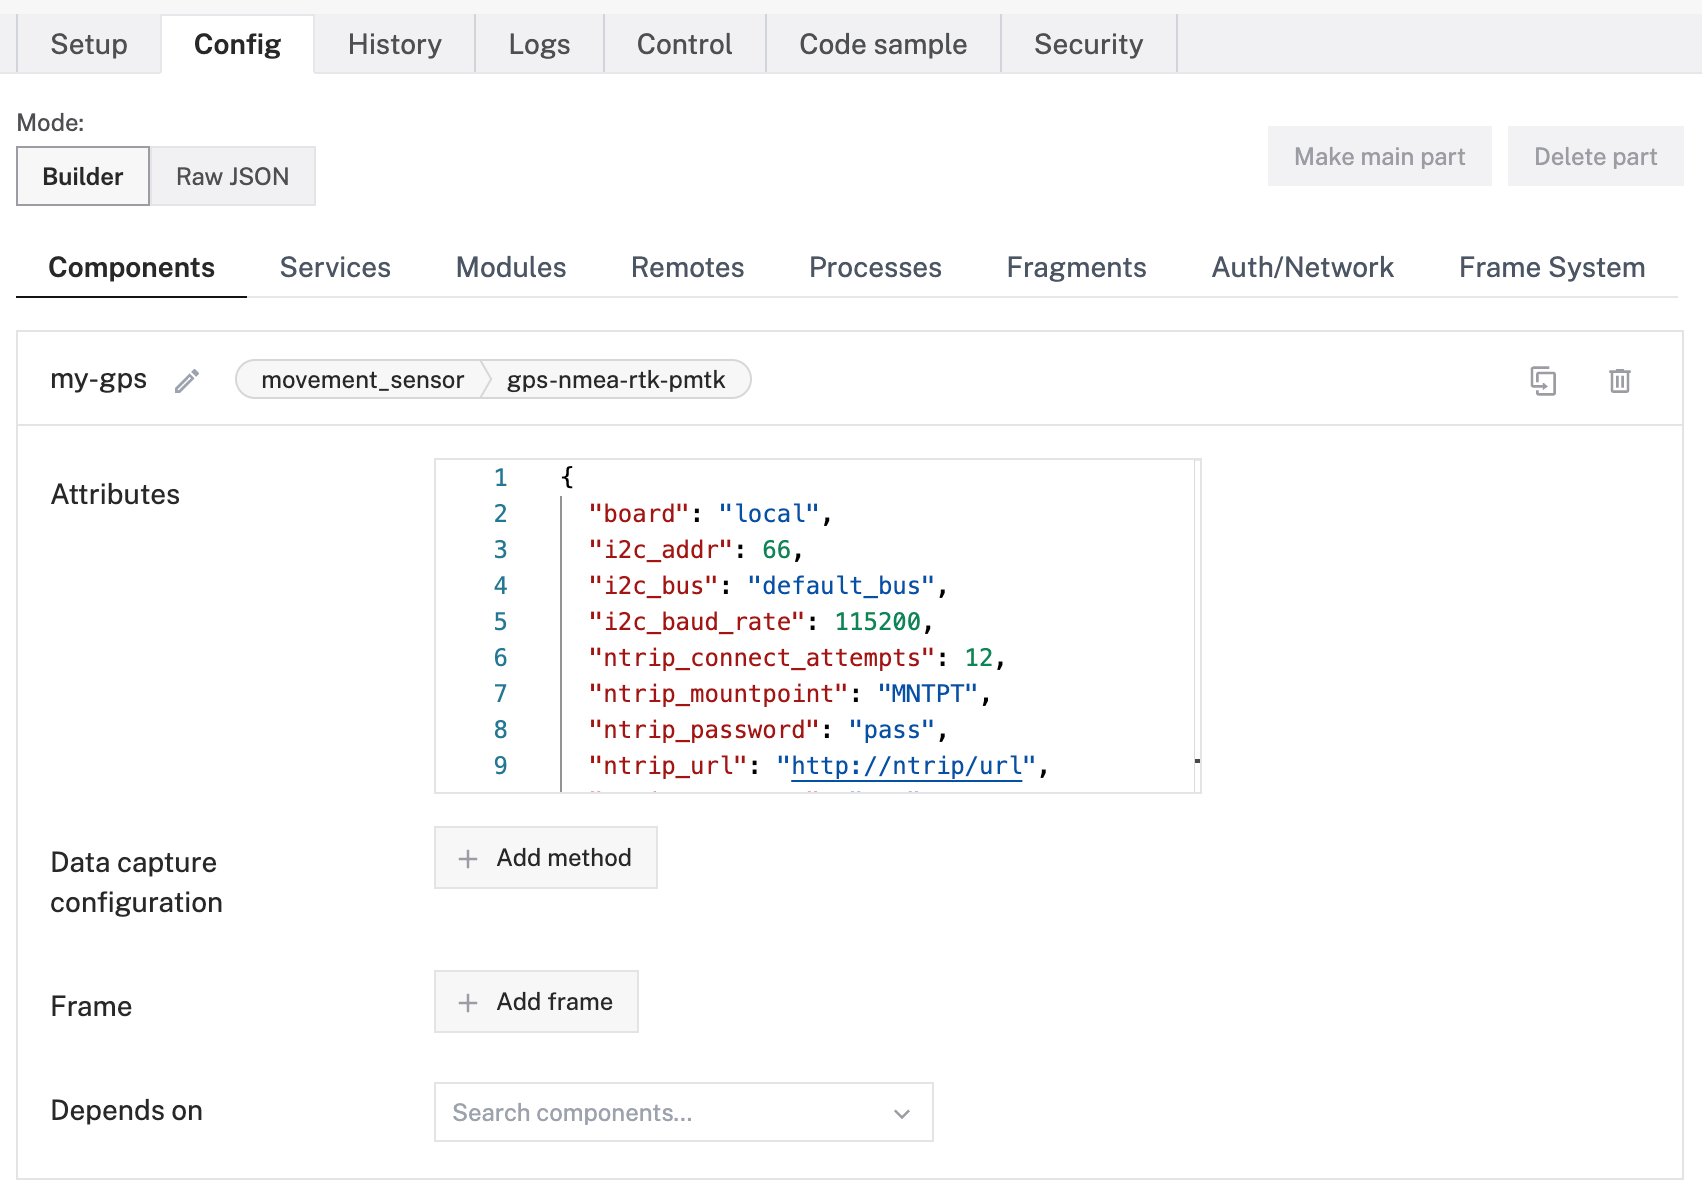
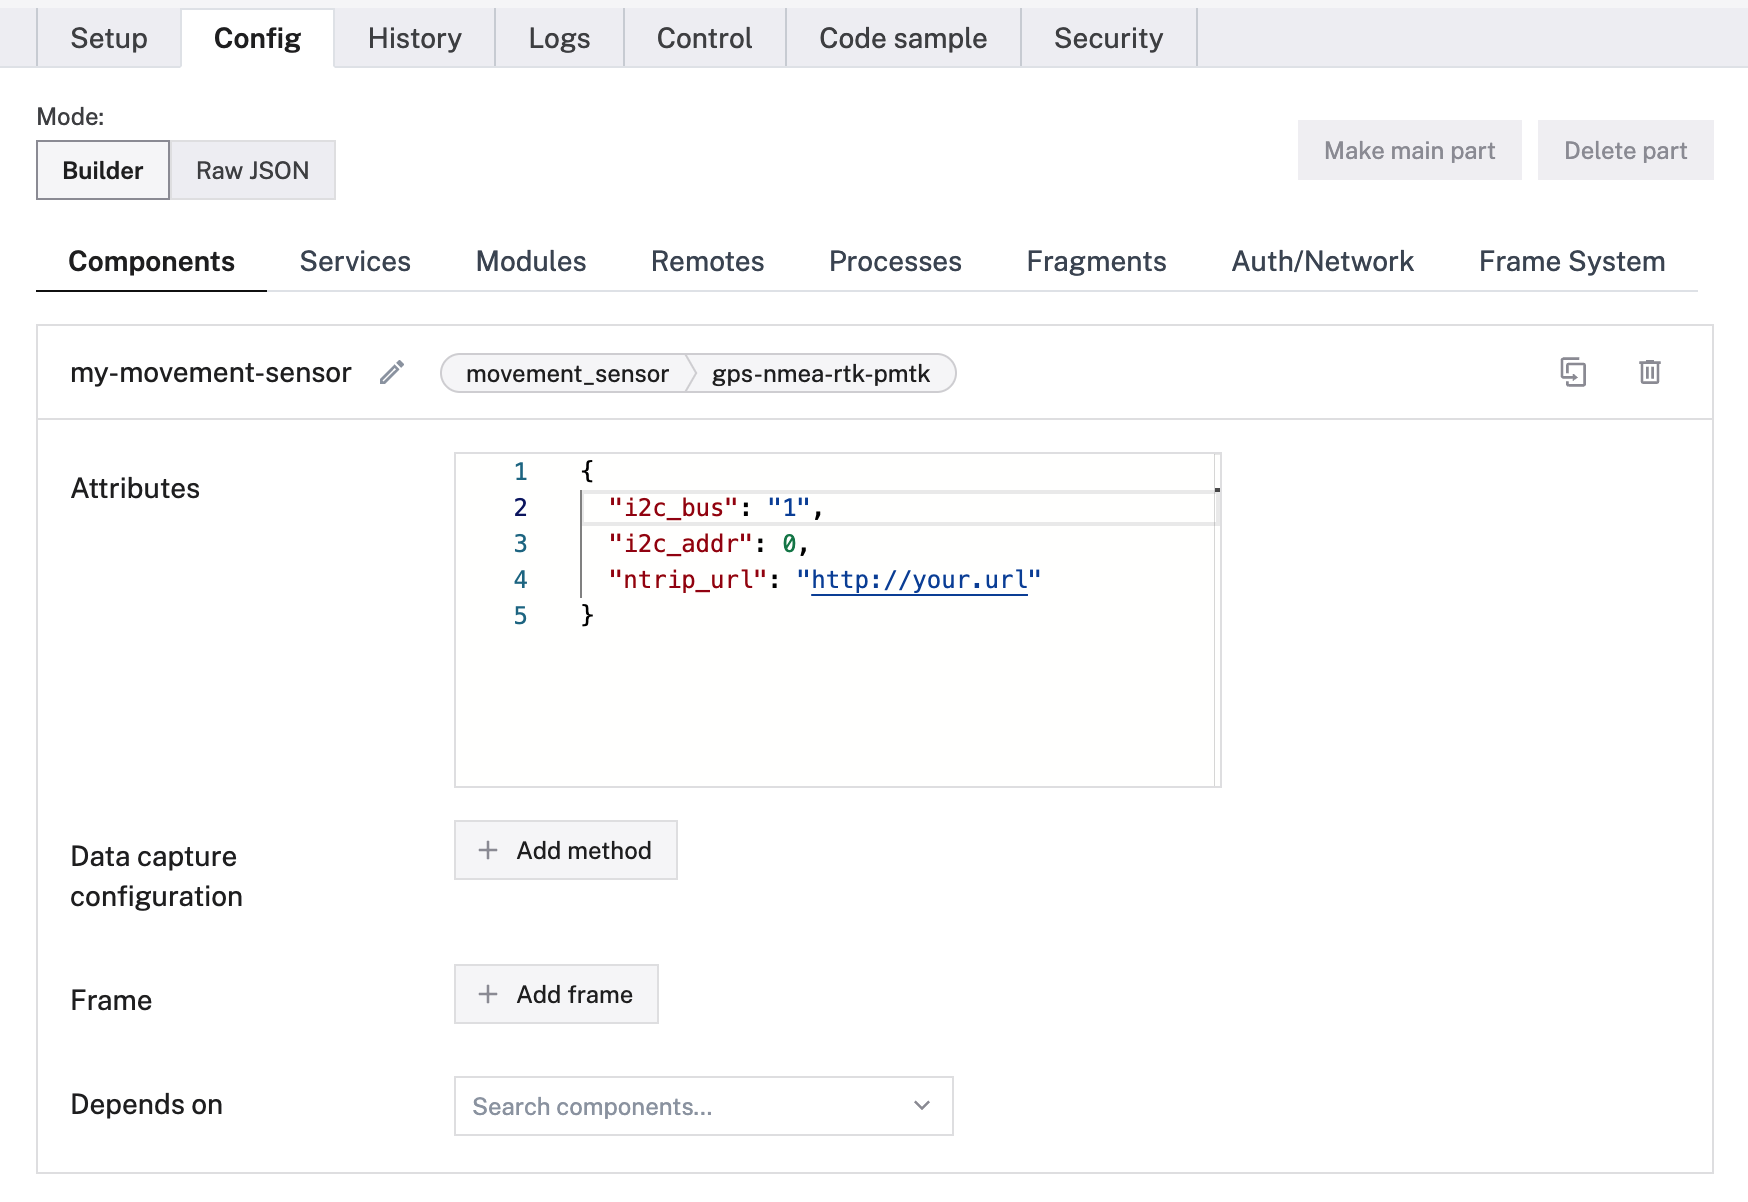
update i2cs for model

diff --git a/docs/components/movement-sensor/gps/gps-nmea-rtk-pmtk.md b/docs/components/movement-sensor/gps/gps-nmea-rtk-pmtk.md
@@ -51,9 +51,8 @@ Then remove and fill in the attributes as applicable to your movement sensor, ac
 
 ```json {class="line-numbers linkable-line-numbers"}
 {
-  "board": "<your-board-name>",
   "i2c_addr": <int>,
-  "i2c_bus": "<name-of-bus-on-board>",
+  "i2c_bus": "<index-of-bus-on-board>",
   "i2c_baud_rate": <int>,
   "ntrip_connect_attempts": <int>,
   "ntrip_mountpoint": "<identifier>",
@@ -68,9 +67,8 @@ Then remove and fill in the attributes as applicable to your movement sensor, ac
 
 ```json {class="line-numbers linkable-line-numbers"}
 {
-  "board": "local",
   "i2c_addr": 66,
-  "i2c_bus": "default_bus",
+  "i2c_bus": "1",
   "i2c_baud_rate": 115200,
   "ntrip_connect_attempts": 12,
   "ntrip_mountpoint": "MNTPT",
@@ -95,10 +93,9 @@ Then remove and fill in the attributes as applicable to your movement sensor, ac
       "type": "movement_sensor",
       "namespace": "rdk",
       "attributes": {
-        "board": "<your-board-name>",
         "i2c_addr": <int>,
         "i2c_baud_rate": <int>,
-        "i2c_bus": "<name-of-bus-on-board>",
+        "i2c_bus": "<index-of-bus-on-board>",
         "ntrip_connect_attempts": <int>,
         "ntrip_mountpoint": "<identifier>",
         "ntrip_password": "<password for NTRIP server>",
@@ -123,10 +120,9 @@ Then remove and fill in the attributes as applicable to your movement sensor, ac
       "type": "movement_sensor",
       "namespace": "rdk",
       "attributes": {
-        "board": "local",
         "i2c_addr": 66,
         "i2c_baud_rate": 115200,
-        "i2c_bus": "default_bus",
+        "i2c_bus": "1",
         "ntrip_connect_attempts": 12,
         "ntrip_mountpoint": "MNTPT",
         "ntrip_password": "pass",
@@ -147,9 +143,8 @@ The following attributes are available for a `gps-nmea-rtk-pmtk` movement sensor
 <!-- prettier-ignore -->
 | Name                     | Type   | Inclusion    | Description |
 | ------------------------ | ------ | ------------ | ----------- |
-| `board`                  | string | **Required** | The `name` of the [board](/components/board/) connected to the sensor with [I<sup>2</sup>C](/components/board/#i2cs). |
 | `i2c_addr`               | int    | **Required** | The device's I<sup>2</sup>C address. |
-| `i2c_bus`                | string | **Required** | The name of the [I<sup>2</sup>C bus](/components/board/#i2cs) wired to the sensor. |
+| `i2c_bus`                | string | **Required** | The index of the [I<sup>2</sup>C bus](/components/board/#i2cs) of the board wired to the sensor. |
 | `i2c_baud_rate`          | int    | Optional     | The rate at which data is sent from the sensor. Optional. <br> Default: `38400` |
 | `ntrip_url`              | string | **Required** | The URL of the NTRIP server from which you get correction data. Connects to a base station (maintained by a third party) for RTK corrections. |
 | `ntrip_username`         | string | Optional     | Username for the NTRIP server. |
